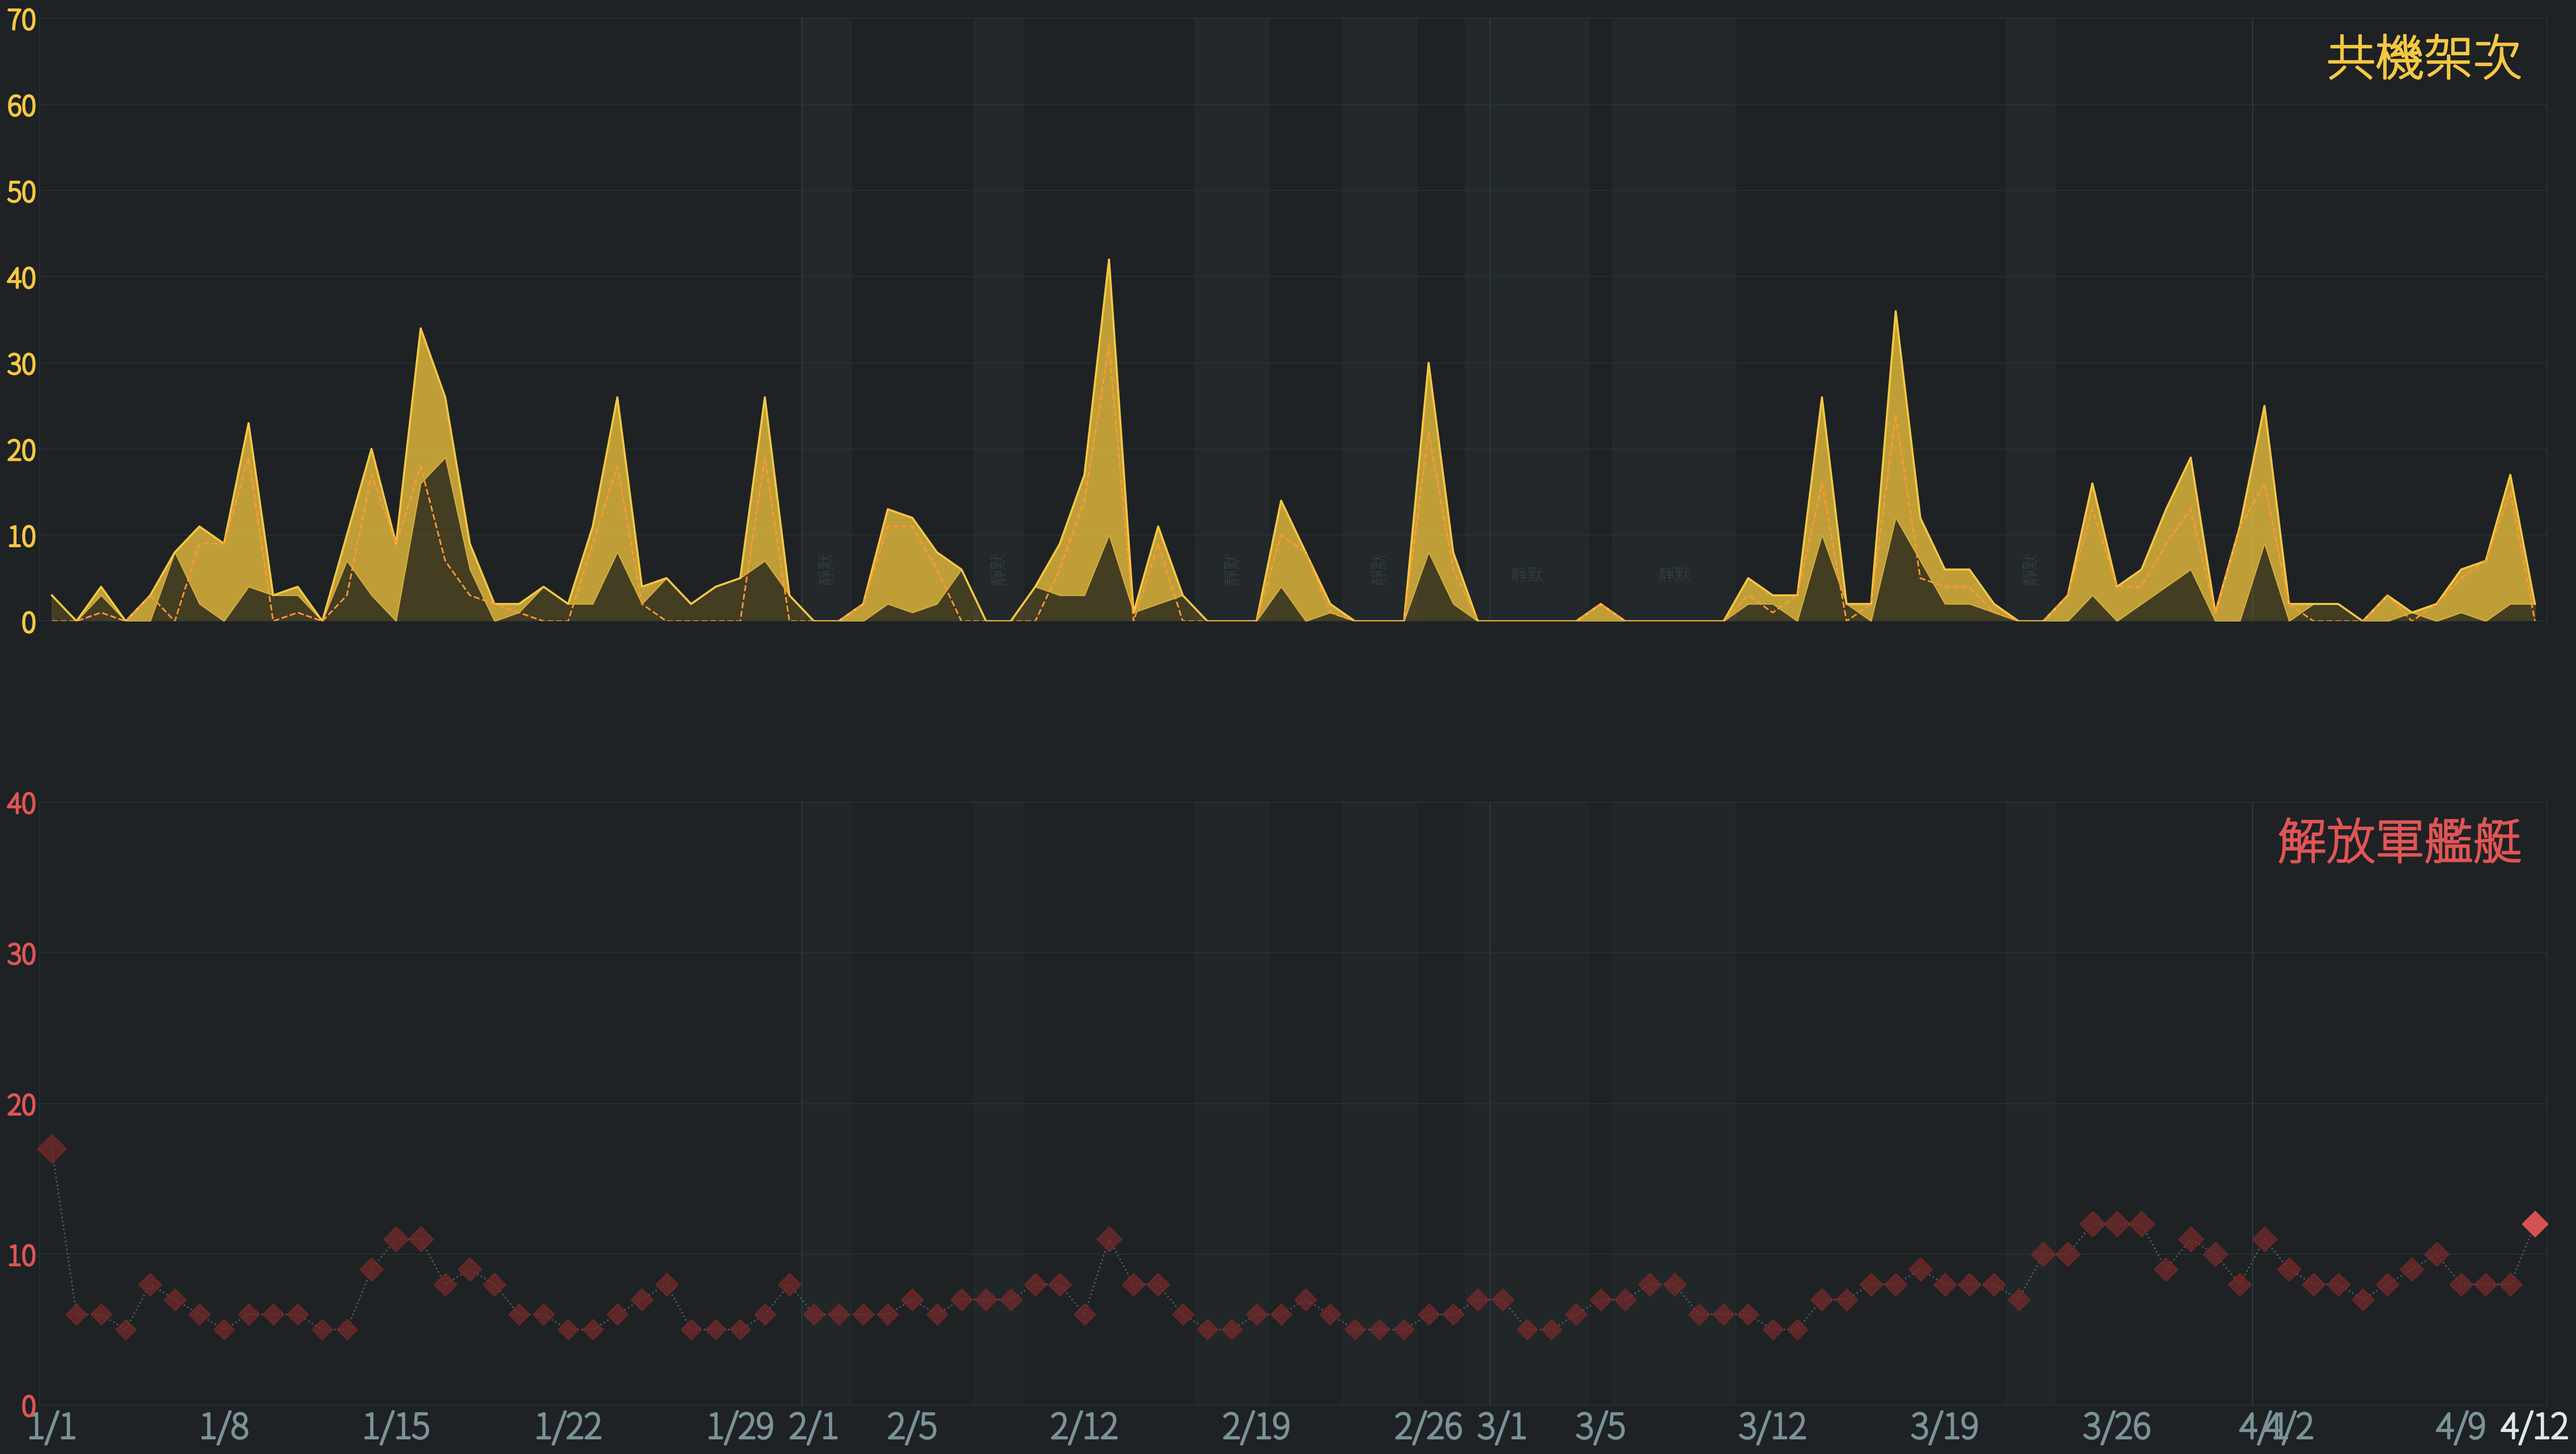
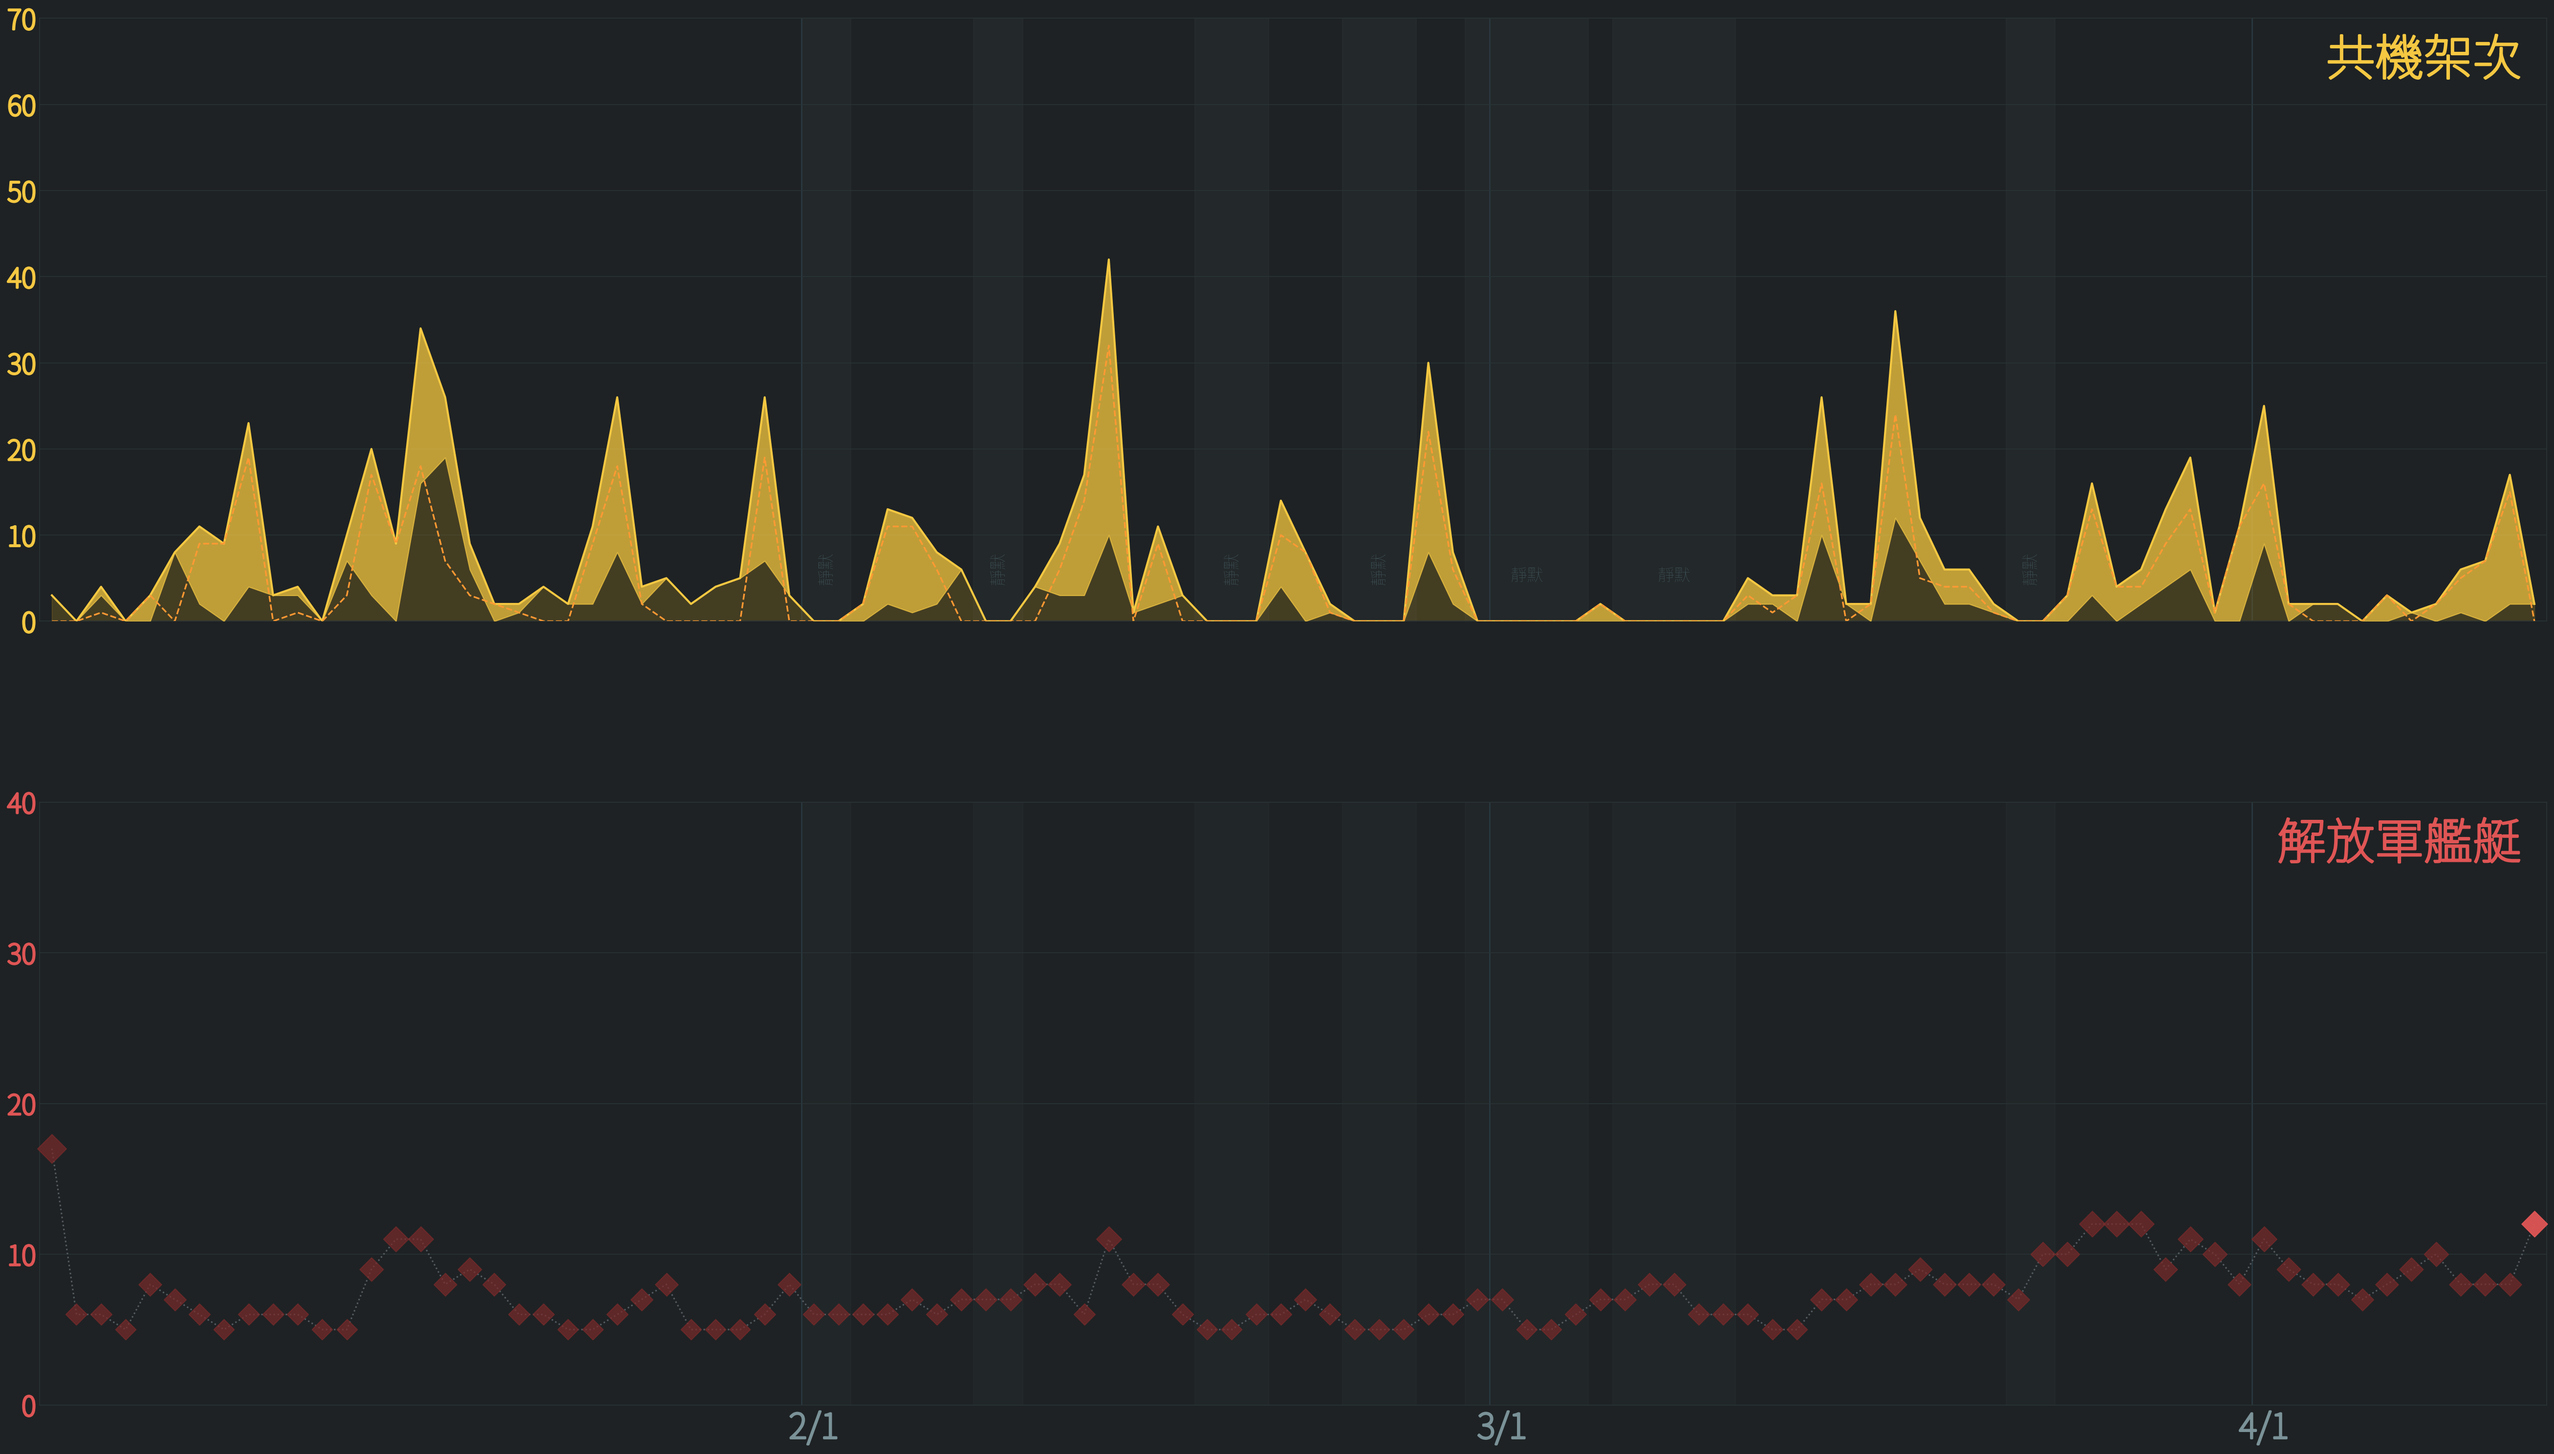
fix: 趨勢圖X軸只顯示每月月首、移除1/1緊貼Y軸問題

diff --git a/scripts/chart_daily.py b/scripts/chart_daily.py
@@ -330,20 +330,10 @@ def _is_local_max(vals, i, window=2):
 
 
 def _xaxis_show(i, n, dates, today_date):
-    """決定這個 x 位置是否顯示日期標籤"""
-    if dates[i] == today_date:
-        return True
-    dt = pd.to_datetime(dates[i])
-    # 每月第一天
-    if dt.day == 1:
-        return True
-    # 資料少時全顯示
-    if n <= 20:
-        return True
-    # 每 7 天一格
-    if i % 7 == 0:
-        return True
-    return False
+    """只顯示每月月首，且跳過 i==0（緊貼 Y 軸）"""
+    if i == 0:
+        return False
+    return pd.to_datetime(dates[i]).day == 1
 
 
 def make_streak_chart(df, today_date=None, obs_text=None, out_path=None):
@@ -487,9 +477,9 @@ def make_streak_chart(df, today_date=None, obs_text=None, out_path=None):
     ax_sh.set_xticks(show_ticks)
     ax_sh.set_xticklabels([date_labels[i] for i in show_ticks])
     _xfp = FontProperties(family=FONT, size=34)
-    for tick, i in zip(ax_sh.get_xticklabels(), show_ticks):
+    for tick in ax_sh.get_xticklabels():
         tick.set_fontproperties(_xfp)
-        tick.set_color(TXTDARK if dates[i] == today_date else TXTSUB)
+        tick.set_color(TXTSUB)
         bold_stroke(tick)
     ax_sh.tick_params(axis='x', pad=6, length=0)
 
